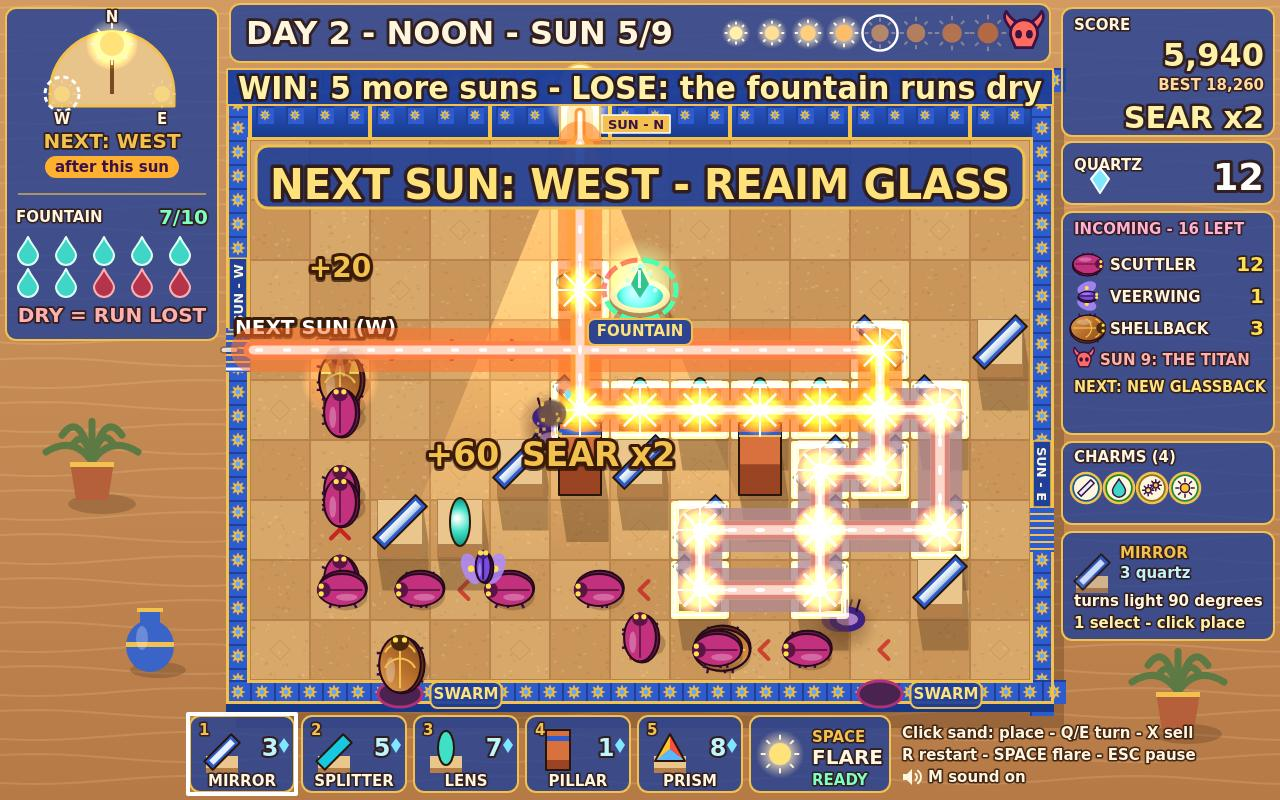
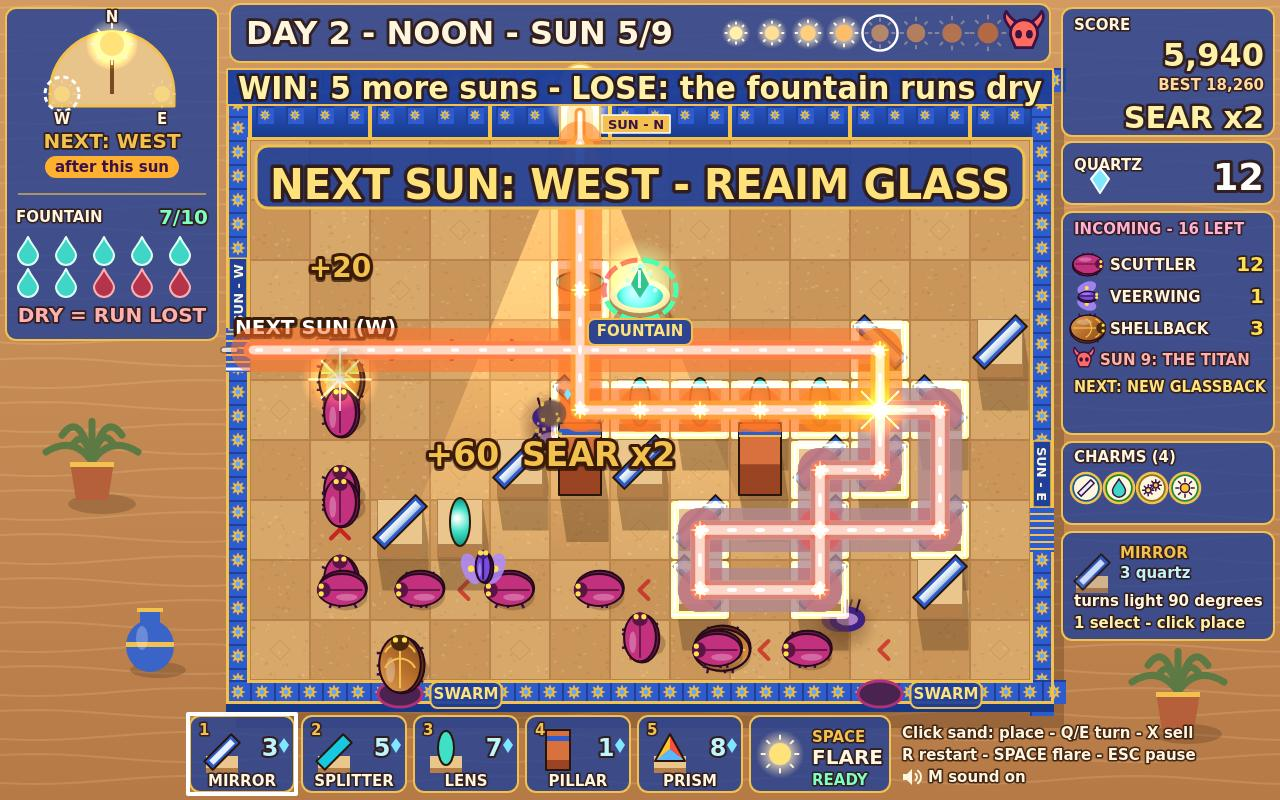
Starbursts: at most 6 big ones, only where light hits a beetle or a prism splits; bounces glint; cover bursts truth-checked

diff --git a/game/src/beams.js b/game/src/beams.js
@@ -48,7 +48,8 @@ export function beamModsFor(boons) {
 /**
  * Trace all light from one opening. blockers: optional Set of cell indices holding a Glassback.
  * Returns { lit: Float32Array power per cell, tints: Uint8Array flags per cell,
- *   legs: [{x0,y0,x1,y1,power,tint,focused}], bursts: [{x,y,power}] } in cell units.
+ *   legs: [{x0,y0,x1,y1,power,tint,focused}], bursts: [{x,y,power,kind}] } in cell units
+ *   (kind: mirror, splitter, lens, prism, or shell where a Glassback soaks the beam).
  */
 export function traceBeams(grid, aperture, mods, blockers = null) {
   const lit = new Float32Array(grid.cols * grid.rows);
@@ -96,26 +97,26 @@ export function traceBeams(grid, aperture, mods, blockers = null) {
       tints[i] |= tint;
       if (blockers && blockers.has(i) && tint !== TINT_GOLD) {
         endLeg(cx, cy); // a Glassback's mirror shell soaks the beam
-        bursts.push({ x: cx, y: cy, power: power * 0.5 });
+        bursts.push({ x: cx, y: cy, power: power * 0.5, kind: 'shell' });
         break;
       }
       if (piece) {
         endLeg(cx, cy);
         if (piece.type === 'mirror') {
-          bursts.push({ x: cx, y: cy, power });
+          bursts.push({ x: cx, y: cy, power, kind: 'mirror' });
           dir = reflectDirection(piece.rot, dir);
           power *= 1 - mods.bounceLoss;
         } else if (piece.type === 'splitter') {
-          bursts.push({ x: cx, y: cy, power });
+          bursts.push({ x: cx, y: cy, power, kind: 'splitter' });
           const turned = reflectDirection(piece.rot, dir);
           power *= 0.5;
           rays.push({ c: c + DX[turned], r: r + DY[turned], dir: turned, power, focus, tint, x: cx, y: cy });
         } else if (piece.type === 'lens') {
-          bursts.push({ x: cx, y: cy, power: power * 0.6 });
+          bursts.push({ x: cx, y: cy, power: power * 0.6, kind: 'lens' });
           power *= mods.lensMult;
           focus = mods.lensReach + 1;
         } else if (piece.type === 'prism') {
-          bursts.push({ x: cx, y: cy, power });
+          bursts.push({ x: cx, y: cy, power, kind: 'prism' });
           const fan = prismFan(piece.rot, dir);
           power *= mods.prismShare;
           for (const branch of fan.slice(1)) rays.push({ c: c + DX[branch.dir], r: r + DY[branch.dir], dir: branch.dir, power, focus: 0, tint: branch.tint, x: cx, y: cy });
@@ -139,4 +140,27 @@ export function litLength(trace) {
   let n = 0;
   for (const p of trace.lit) if (p > 0) n++;
   return n;
+}
+
+/** How many big starbursts a frame may show. */
+export const MAX_STARBURSTS = 6;
+
+/**
+ * The big starbursts worth drawing: prism splits and Glassback shells first, then the beetles the
+ * light hits hardest, at most MAX_STARBURSTS. Plain bounces get none (render/fx.js gives them a glint).
+ */
+export function bigStarbursts(trace, enemies) {
+  // One per spot: a prism crossed by several rays still splits light in one place.
+  const out = [];
+  for (const b of trace.bursts) {
+    if (b.kind !== 'prism' && b.kind !== 'shell') continue;
+    const same = out.find((o) => o.x === b.x && o.y === b.y);
+    if (same) same.power = Math.max(same.power, b.power);
+    else out.push({ x: b.x, y: b.y, power: b.power, kind: b.kind });
+  }
+  const hits = enemies
+    .filter((e) => e.hp > 0 && e.litPower > 0 && !out.some((b) => Math.hypot(b.x - e.x, b.y - e.y) < 0.6))
+    .sort((a, b) => b.litPower - a.litPower || a.id - b.id)
+    .map((e) => ({ x: e.x, y: e.y, power: e.litPower, kind: 'hit' }));
+  return [...out, ...hits].slice(0, MAX_STARBURSTS);
 }

diff --git a/game/src/render/fx.js b/game/src/render/fx.js
@@ -1,8 +1,8 @@
-// Light and juice: additive sunbeams with starbursts at bounces, sparks on burning beetles,
+// Light and juice: additive sunbeams with starbursts where light hits beetles, sparks on burning beetles,
 // smoke and flipped husks on kills, quartz that fly to the HUD counter, floating CHAIN text,
 // screen shake, the Flare flash and the red hurt vignette. Effects advance with sim time.
 import { NAMES, WAVE_COUNT } from '../config.js';
-import { beamModsFor, traceBeams } from '../beams.js';
+import { beamModsFor, bigStarbursts, traceBeams } from '../beams.js';
 import { sunApertureFor } from '../sun.js';
 import { currentBanner } from '../announce.js';
 import { BOARD_H, BOARD_W, BOARD_X, BOARD_Y, QUARTZ_ANCHOR, VIEW_H, VIEW_W, toScreenX, toScreenY } from './layout.js';
@@ -273,8 +273,25 @@ export function drawBeams(ctx, trace, opts) {
   ctx.save();
   ctx.globalCompositeOperation = 'lighter';
   const twinkle = 0.85 + Math.sin((opts.time ?? 0) * 7) * 0.15;
-  for (const b of trace.bursts) drawStarburst(ctx, toScreenX(b.x), toScreenY(b.y), 22 * Math.min(1.25, Math.max(0.7, Math.sqrt(b.power / 10))) * twinkle, 0.55 * alpha);
+  // Big starbursts only where light hits a beetle or a prism splits (at most 6); bounces just glint.
+  const big = bigStarbursts(trace, opts.enemies ?? []);
+  const glints = new Set();
+  for (const b of trace.bursts) {
+    const key = `${b.x},${b.y}`;
+    if (b.kind === 'prism' || b.kind === 'shell' || glints.has(key)) continue;
+    glints.add(key);
+    drawStarburst(ctx, toScreenX(b.x), toScreenY(b.y), 9 * twinkle, 0.35 * alpha);
+  }
+  for (const b of big) drawStarburst(ctx, toScreenX(b.x), toScreenY(b.y), 26 * Math.min(1.25, Math.max(0.75, Math.sqrt(b.power / 10))) * twinkle, 0.6 * alpha);
+  lastStarbursts = big;
   ctx.restore();
+}
+
+let lastStarbursts = [];
+
+/** The big starbursts of the last beam frame (for the screenshot checks). */
+export function drawnStarbursts() {
+  return lastStarbursts.map((b) => ({ x: +b.x.toFixed(2), y: +b.y.toFixed(2), kind: b.kind }));
 }
 
 let beamCanvas = null;

diff --git a/game/src/testhook.js b/game/src/testhook.js
@@ -9,7 +9,7 @@ import { currentBanner, winLoseHeadline } from './announce.js';
 import { loadHistory } from './save.js';
 import { audioProbe } from './audio.js';
 import { squeezeReport } from './render/fit.js';
-import { boardTextBoxes, boxTouchesBeam } from './render/fx.js';
+import { boardTextBoxes, boxTouchesBeam, drawnStarbursts } from './render/fx.js';
 import { boardLabelBoxes } from './render/board.js';
 
 /** Board tags (SWARM, FOUNTAIN) that a beam core or a beetle covers right now. */
@@ -142,6 +142,9 @@ export function installTestHook(app, api) {
     /** Lines squeezed since the last call: { tooTight, squeezed } (render/fit.js); clears the record. */
     squeezes() {
       return squeezeReport();
+    },
+    starbursts() {
+      return drawnStarbursts();
     },
     floaterCount() {
       return app.fx.texts.length;

diff --git a/game/src/render/scene.js b/game/src/render/scene.js
@@ -96,7 +96,7 @@ export function drawFrame(ctx, frame) {
       drawNextSunGhost(ctx, next.trace, `NEXT ${NAMES.sun} (${next.wall})`, time);
     }
     const alpha = phase === 'wave' || phase === 'won' ? 1 : phase === 'build' ? 0.8 : 0.95;
-    drawBeams(ctx, ui.ghostTrace ?? run.trace, { alpha, flare: run.flareLeft > 0 ? 1 : 0, time, patterns: frame.patterns });
+    drawBeams(ctx, ui.ghostTrace ?? run.trace, { alpha, flare: run.flareLeft > 0 ? 1 : 0, time, patterns: frame.patterns, enemies: ui.ghostTrace ? [] : run.enemies });
   }
   drawFx(ctx, fx, phase !== 'draft');
   if (phase !== 'draft' && !frame.resultsHero) drawBoardTags(ctx, run);

diff --git a/NOTES.md b/NOTES.md
@@ -200,6 +200,11 @@
   (lilac wings), Shellback bronze (metallic sweep, gold ribs), Glassback cyan (teal ring), Titan plum.
   The INCOMING icons are the same sprites; floor husks and the results Titan use the same palette.
 
+- Benchmark 5 item 9: big starbursts only where light hits a beetle or a prism splits (beams.
+  bigStarbursts: prism/Glassback-shell spots once each, then lit beetles by power, at most 6); mirror,
+  splitter and lens joints get a small glint. Trace bursts carry a kind. check-shot-truth replays the
+  cover and compares the drawn bursts. Cover: 2 big bursts, 0 blown 32 px blocks (was 5).
+
 ## Next
 - Staging (benchmark 2 item 1, benchmark 1 item 6): cover wants >= 18 beetles, >= 4 burning, >= 3
   floaters, a Scuttler at the rim and a fresh -1 FOUNTAIN; draft and win at 6/10 (now 8/10).
